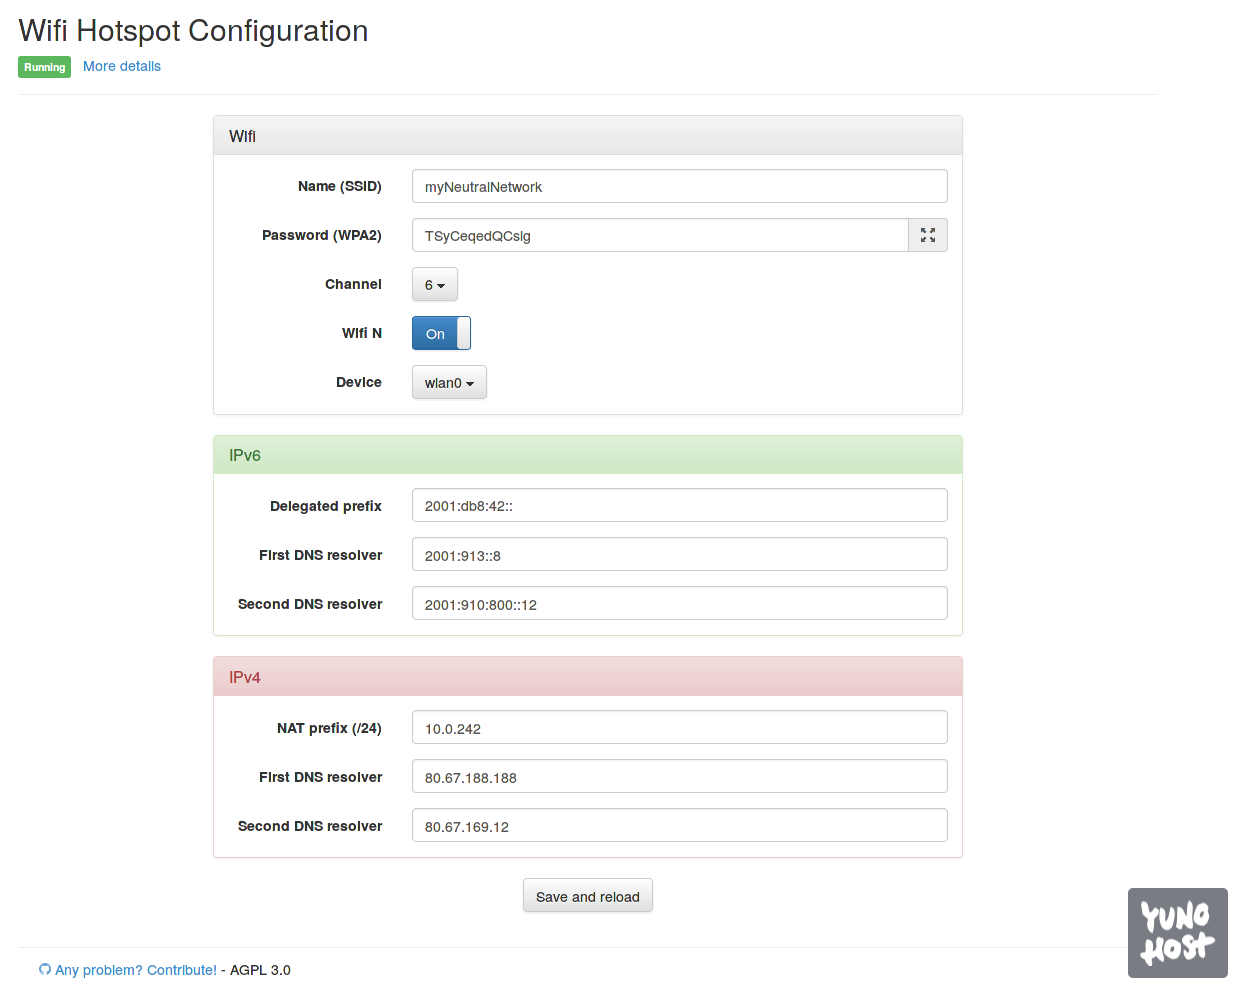
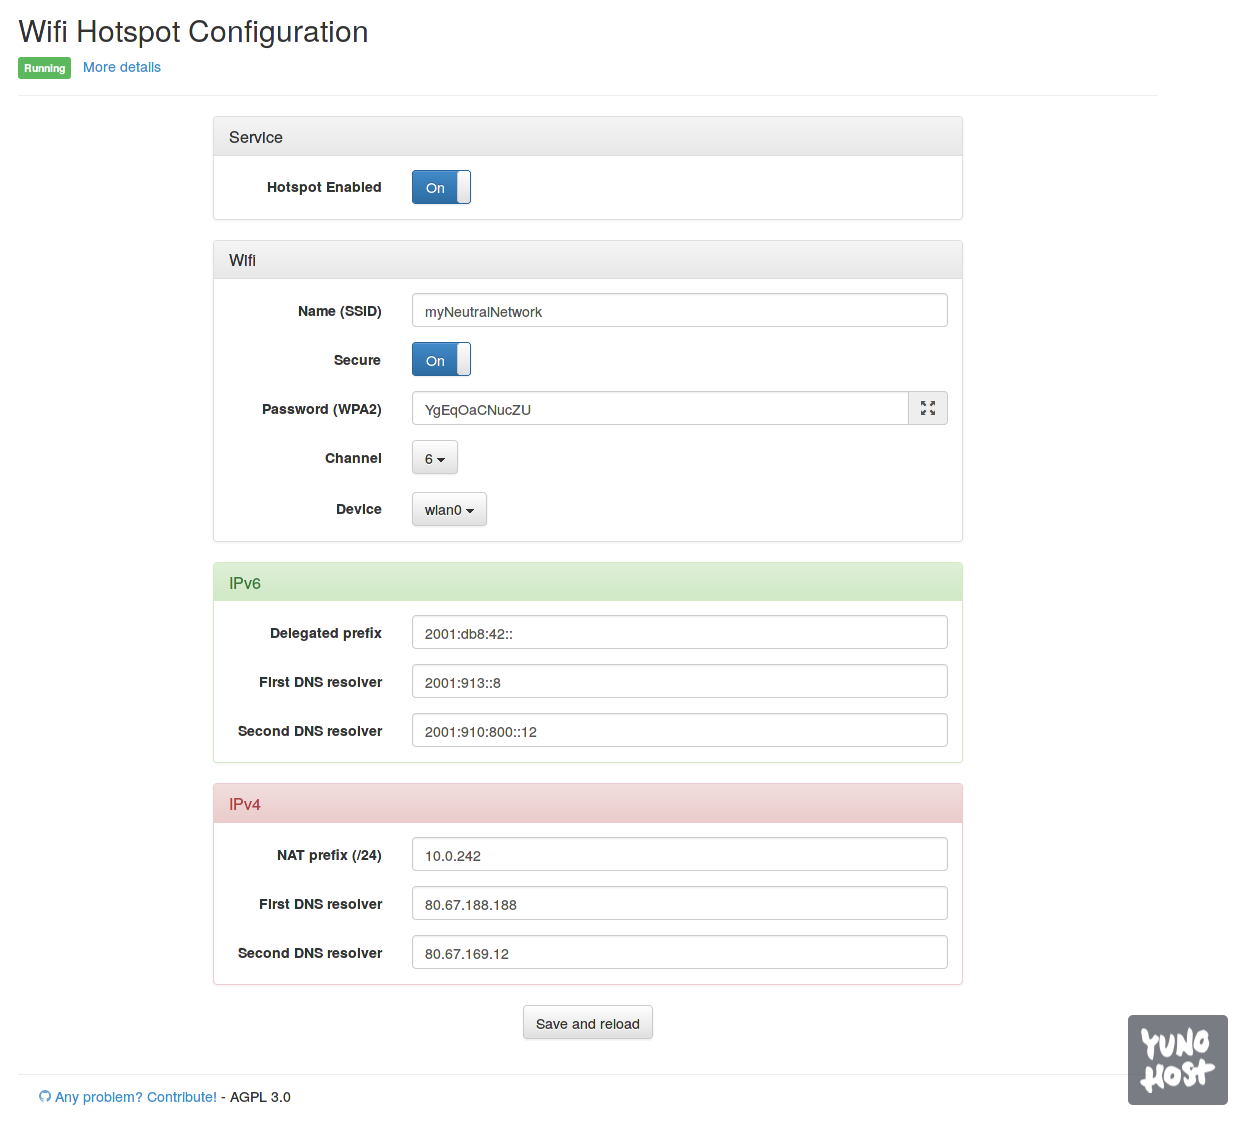
* Add "Install non-free firmwares" option * Add Enable/Disable Service feature * Add Secure/Unsecure Wifi feature

diff --git a/sources/public/js/custom.js b/sources/public/js/custom.js
@@ -101,6 +101,22 @@ $(document).ready(function() {
   $('#wifiparty_close').click(function() {
     $('#wifiparty_screen').hide();
   });
+
+  $('#wifi_secure').change(function() {
+    if($('#wifi_secure').parent().hasClass('off')) {
+      $('.secure').hide('slow');
+    } else {
+      $('.secure').show('slow');
+    }
+  });
+
+  $('#service_enabled').change(function() {
+    if($('#service_enabled').parent().hasClass('off')) {
+      $('.enabled').hide('slow');
+    } else {
+      $('.enabled').show('slow');
+    }
+  });
 });
 
 $(document).keydown(function(e) {

diff --git a/sources/controller.php b/sources/controller.php
@@ -87,7 +87,9 @@ dispatch('/', function() {
   $ip6_net = ($ip6_net == 'none') ? '' : $ip6_net;
   $ip4_nat_prefix = moulinette_get('ip4_nat_prefix');
 
+  set('service_enabled', moulinette_get('service_enabled'));
   set('wifi_ssid', moulinette_get('wifi_ssid'));
+  set('wifi_secure', moulinette_get('wifi_secure'));
   set('wifi_passphrase', moulinette_get('wifi_passphrase'));
   set('wifi_channel', moulinette_get('wifi_channel'));
   set('wifi_n', moulinette_get('wifi_n'));
@@ -111,95 +113,111 @@ dispatch_put('/settings', function() {
 
   $ip6_net = empty($_POST['ip6_net']) ? 'none' : $_POST['ip6_net'];
   $ip6_addr = 'none';
+  $service_enabled = isset($_POST['service_enabled']) ? 1 : 0;
+  $wifi_secure = isset($_POST['wifi_secure']) ? 1 : 0;
 
-  try {
-    if(empty($_POST['wifi_ssid']) || empty($_POST['wifi_passphrase']) || empty($_POST['wifi_channel'])) {
-      throw new Exception(T_('Your Wifi Hotspot needs a name, a password and a channel'));
-    }
-
-    if(strlen($_POST['wifi_passphrase']) < 8 || strlen($_POST['wifi_passphrase']) > 63) {
-      throw new Exception(T_('Your password must from 8 to 63 characters (WPA2 passphrase)'));
-    }
-
-    if(preg_match('/[^[:print:]]/', $_POST['wifi_passphrase'])) {
-      throw new Exception(T_('Only printable ASCII characters are permitted in your password'));
-    }
-
-    if(!$wifi_device_exists) {
-      throw new Exception(T_('The wifi antenna interface seems not exist on the system'));
-    }
-
-    if($ip6_net != 'none') {
-      $ip6_net = ipv6_expanded($ip6_net);
-  
-      if(empty($ip6_net)) {
-        throw new Exception(T_('The IPv6 Delegated Prefix format looks bad'));
+  if($service_enabled == 1) {
+    try {
+      if(empty($_POST['wifi_ssid']) || empty($_POST['wifi_passphrase']) || empty($_POST['wifi_channel'])) {
+        throw new Exception(T_('Your Wifi Hotspot needs a name, a password and a channel'));
       }
   
-      $ip6_blocs = explode(':', $ip6_net);
-      $ip6_addr = "${ip6_blocs[0]}:${ip6_blocs[1]}:${ip6_blocs[2]}:${ip6_blocs[3]}:${ip6_blocs[4]}:${ip6_blocs[5]}:${ip6_blocs[6]}:42";
+      if(strlen($_POST['wifi_passphrase']) < 8 || strlen($_POST['wifi_passphrase']) > 63) {
+        throw new Exception(T_('Your password must from 8 to 63 characters (WPA2 passphrase)'));
+      }
   
-      $ip6_net = ipv6_compressed($ip6_net);
-      $ip6_addr = ipv6_compressed($ip6_addr);
+      if(preg_match('/[^[:print:]]/', $_POST['wifi_passphrase'])) {
+        throw new Exception(T_('Only printable ASCII characters are permitted in your password'));
+      }
+  
+      if(!$wifi_device_exists) {
+        throw new Exception(T_('The wifi antenna interface seems not exist on the system'));
+      }
+  
+      if($ip6_net != 'none') {
+        $ip6_net = ipv6_expanded($ip6_net);
+    
+        if(empty($ip6_net)) {
+          throw new Exception(T_('The IPv6 Delegated Prefix format looks bad'));
+        }
+    
+        $ip6_blocs = explode(':', $ip6_net);
+        $ip6_addr = "${ip6_blocs[0]}:${ip6_blocs[1]}:${ip6_blocs[2]}:${ip6_blocs[3]}:${ip6_blocs[4]}:${ip6_blocs[5]}:${ip6_blocs[6]}:42";
+    
+        $ip6_net = ipv6_compressed($ip6_net);
+        $ip6_addr = ipv6_compressed($ip6_addr);
+      }
+  
+      $ip6_dns0 = ipv6_expanded($ip6_dns0);
+  
+      if(empty($_POST['ip6_dns0'])) {
+        throw new Exception(T_('The format of the first IPv6 DNS Resolver looks bad'));
+      }
+  
+      $ip6_dns0 = ipv6_compressed($ip6_dns0);
+      $ip6_dns1 = ipv6_expanded($ip6_dns1);
+  
+      if(empty($_POST['ip6_dns1'])) {
+        throw new Exception(T_('The format of the second IPv6 DNS Resolver looks bad'));
+      }
+  
+      $ip6_dns1 = ipv6_compressed($ip6_dns1);
+  
+      if(inet_pton($_POST['ip4_dns0']) === false) {
+        throw new Exception(T_('The format of the first IPv4 DNS Resolver looks bad'));
+      }
+  
+      if(inet_pton($_POST['ip4_dns1']) === false) {
+        throw new Exception(T_('The format of the second IPv4 DNS Resolver looks bad'));
+      }
+  
+      if(inet_pton("${_POST['ip4_nat_prefix']}.0") === false) {
+        throw new Exception(T_('The format of the IPv4 NAT Prefix (/24) looks bad : x.x.x expected)'));
+      }
+  
+      if(filter_var("${_POST['ip4_nat_prefix']}.0", FILTER_VALIDATE_IP, FILTER_FLAG_NO_PRIV_RANGE) !== false) {
+        throw new Exception(T_('The IPv4 NAT Prefix must be from a private range'));
+      }
+  
+    } catch(Exception $e) {
+      flash('error', $e->getMessage().' ('.T_('configuration not updated').').');
+      goto redirect;
     }
-
-    $ip6_dns0 = ipv6_expanded($ip6_dns0);
-
-    if(empty($_POST['ip6_dns0'])) {
-      throw new Exception(T_('The format of the first IPv6 DNS Resolver looks bad'));
-    }
-
-    $ip6_dns0 = ipv6_compressed($ip6_dns0);
-    $ip6_dns1 = ipv6_expanded($ip6_dns1);
-
-    if(empty($_POST['ip6_dns1'])) {
-      throw new Exception(T_('The format of the second IPv6 DNS Resolver looks bad'));
-    }
-
-    $ip6_dns1 = ipv6_compressed($ip6_dns1);
-
-    if(inet_pton($_POST['ip4_dns0']) === false) {
-      throw new Exception(T_('The format of the first IPv4 DNS Resolver looks bad'));
-    }
-
-    if(inet_pton($_POST['ip4_dns1']) === false) {
-      throw new Exception(T_('The format of the second IPv4 DNS Resolver looks bad'));
-    }
-
-    if(inet_pton("${_POST['ip4_nat_prefix']}.0") === false) {
-      throw new Exception(T_('The format of the IPv4 NAT Prefix (/24) looks bad : x.x.x expected)'));
-    }
-
-    if(filter_var("${_POST['ip4_nat_prefix']}.0", FILTER_VALIDATE_IP, FILTER_FLAG_NO_PRIV_RANGE) !== false) {
-      throw new Exception(T_('The IPv4 NAT Prefix must be from a private range'));
-    }
-
-  } catch(Exception $e) {
-    flash('error', $e->getMessage().' ('.T_('configuration not updated').').');
-    goto redirect;
   }
 
   stop_service();
 
-  moulinette_set('wifi_ssid', $_POST['wifi_ssid']);
-  moulinette_set('wifi_passphrase', $_POST['wifi_passphrase']);
-  moulinette_set('wifi_channel', $_POST['wifi_channel']);
-  moulinette_set('wifi_n', isset($_POST['wifi_n']) ? 1 : 0);
-  moulinette_set('wifi_device', $_POST['wifi_device']);
-  moulinette_set('ip6_net', $ip6_net);
-  moulinette_set('ip6_addr', $ip6_addr);
-  moulinette_set('ip6_dns0', $_POST['ip6_dns0']);
-  moulinette_set('ip6_dns1', $_POST['ip6_dns1']);
-  moulinette_set('ip4_nat_prefix', $_POST['ip4_nat_prefix']);
-  moulinette_set('ip4_dns0', $_POST['ip4_dns0']);
-  moulinette_set('ip4_dns1', $_POST['ip4_dns1']);
+  moulinette_set('service_enabled', $service_enabled);
 
-  $retcode = start_service();
+  if($service_enabled == 1) {
+    moulinette_set('wifi_ssid', $_POST['wifi_ssid']);
+    moulinette_set('wifi_secure', $wifi_secure);
 
-  if($retcode == 0) {
-    flash('success', T_('Configuration updated and service successfully reloaded'));
+    if($wifi_secure == 1) {
+      moulinette_set('wifi_passphrase', $_POST['wifi_passphrase']);
+    }
+
+    moulinette_set('wifi_channel', $_POST['wifi_channel']);
+    moulinette_set('wifi_n', isset($_POST['wifi_n']) ? 1 : 0);
+    moulinette_set('wifi_device', $_POST['wifi_device']);
+    moulinette_set('ip6_net', $ip6_net);
+    moulinette_set('ip6_addr', $ip6_addr);
+    moulinette_set('ip6_dns0', $_POST['ip6_dns0']);
+    moulinette_set('ip6_dns1', $_POST['ip6_dns1']);
+    moulinette_set('ip4_nat_prefix', $_POST['ip4_nat_prefix']);
+    moulinette_set('ip4_dns0', $_POST['ip4_dns0']);
+    moulinette_set('ip4_dns1', $_POST['ip4_dns1']);
+
+    $retcode = start_service();
+
+    if($retcode == 0) {
+      flash('success', T_('Configuration updated and service successfully reloaded'));
+    } else {
+      flash('error', T_('Configuration updated but service reload failed'));
+    }
+
   } else {
-    flash('error', T_('Configuration updated but service reload failed'));
+      flash('success', T_('Service successfully disabled'));
   }
 
   redirect:

diff --git a/sources/views/settings.html.php b/sources/views/settings.html.php
@@ -65,6 +65,23 @@
 
       <div class="panel panel-default">
         <div class="panel-heading">
+          <h3 class="panel-title"><?= T_("Service") ?></h3>
+        </div>
+
+        <div style="padding: 14px 14px 0 10px">
+          <div class="form-group">
+            <label for="wifi_secure" class="col-sm-3 control-label"><?= T_('Hotspot Enabled') ?></label>
+            <div class="col-sm-9 input-group-btn" data-toggle="tooltip" ?>">
+              <div class="input-group">
+                <input type="checkbox" class="form-control switch" name="service_enabled" id="service_enabled" value="1" <?= $service_enabled == 1 ? 'checked="checked"' : '' ?> />
+              </div>
+            </div>
+          </div>
+        </div>
+      </div>
+
+      <div class="panel panel-default enabled" <?= $service_enabled == 0 ? 'style="display: none"' : '' ?>>
+        <div class="panel-heading">
           <h3 class="panel-title"><?= T_("Wifi") ?></h3>
         </div>
 
@@ -75,8 +92,17 @@
               <input type="text" class="form-control" name="wifi_ssid" id="wifi_ssid" placeholder="myNeutralNetwork" value="<?= $wifi_ssid ?>" />
             </div>
           </div>
-  
+
           <div class="form-group">
+            <label for="wifi_secure" class="col-sm-3 control-label"><?= T_('Secure') ?></label>
+            <div class="col-sm-9 input-group-btn" data-toggle="tooltip" data-title="<?= T_('Disabling the Secure Wifi allows everyone to join the hotspot and spy the traffic (but it\'s perfect for a PirateBox)') ?>">
+              <div class="input-group">
+                <input type="checkbox" class="form-control switch" name="wifi_secure" id="wifi_secure" value="1" <?= $wifi_secure == 1 ? 'checked="checked"' : '' ?> />
+              </div>
+            </div>
+          </div>
+  
+          <div class="form-group secure" <?= $wifi_secure == 0 ? 'style="display: none"' : '' ?>>
             <label for="wifi_passphrase" class="col-sm-3 control-label"><?= T_('Password (WPA2)') ?></label>
             <div class="input-group col-sm-9" style="padding: 0 15px">
               <input type="text" data-toggle="tooltip" data-title="<?= T_('At least 8 characters') ?>" class="form-control" name="wifi_passphrase" id="wifi_passphrase" placeholder="VhegT8oev0jZI" value="<?= $wifi_passphrase ?>" />
@@ -107,8 +133,8 @@
             </div>
           </div>
 
-          <div class="form-group">
-            <label for="wifi_passphrase" class="col-sm-3 control-label"><?= T_('Wifi N') ?></label>
+          <div class="form-group" style="display: none">
+            <label for="wifi_n" class="col-sm-3 control-label"><?= T_('Wifi N') ?></label>
             <div class="col-sm-9 input-group-btn" data-toggle="tooltip" data-title="<?= T_('Only if your antenna is 802.11n compliant') ?>">
               <div class="input-group">
                 <input type="checkbox" class="form-control switch" name="wifi_n" id="wifi_n" value="1" <?= $wifi_n == 1 ? 'checked="checked"' : '' ?> />
@@ -131,7 +157,7 @@
         </div>
       </div>
 
-      <div class="panel panel-success">
+      <div class="panel panel-success enabled" <?= $service_enabled == 0 ? 'style="display: none"' : '' ?>>
         <div class="panel-heading">
           <h3 class="panel-title" data-toggle="tooltip" data-title="<?= T_('Real Internet') ?>"><?= T_("IPv6") ?></h3>
         </div>
@@ -168,7 +194,7 @@
         </div>
       </div>
 
-      <div class="panel panel-danger">
+      <div class="panel panel-danger enabled" <?= $service_enabled == 0 ? 'style="display: none"' : '' ?>>
         <div class="panel-heading">
           <h3 class="panel-title" data-toggle="tooltip" data-title="<?= T_('Old Internet') ?>"><?= T_("IPv4") ?></h3>
         </div>
